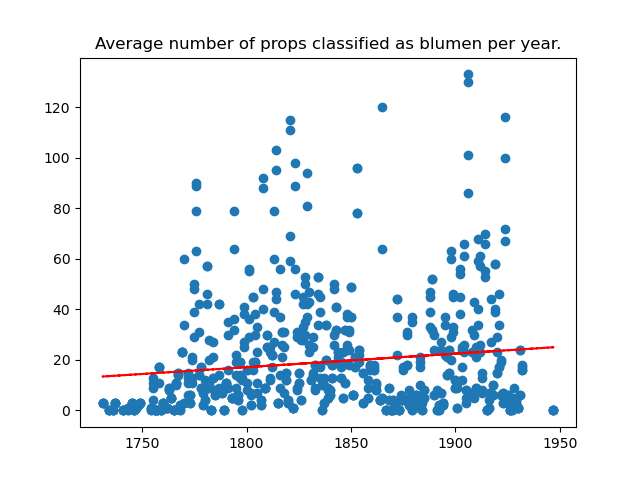
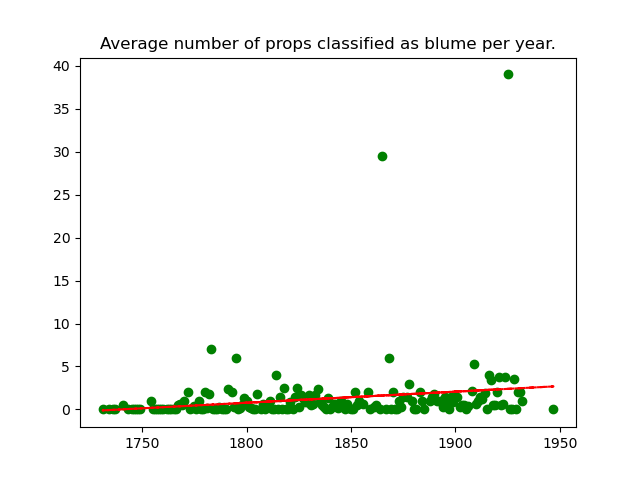
stühle final(?) presentationm

diff --git a/2024-05-27-chair-jf/index.html b/2024-05-27-chair-jf/index.html
@@ -4,7 +4,7 @@
 		<meta charset="utf-8">
 		<meta name="viewport" content="width=device-width, initial-scale=1.0, maximum-scale=1.0, user-scalable=no">
 
-		<title>reveal.js</title>
+		<title>Stühle in DraCor</title>
 
 		<link rel="stylesheet" href="../revealjs/dist/reset.css">
 		<link rel="stylesheet" href="../revealjs/dist/reveal.css">
@@ -18,7 +18,161 @@
 			<div class="slides">
 				<section data-markdown="" data-separator="^\n---\n" data-separator-vertical="^\n--\n" data-charset="utf-8">
 					<script type="text/template">
-						#### Test
+
+### Stühle in DraCor
+Jonah Lubin, nach einer Idee von Viktor Illmer<!-- .element: style="font-size:0.8em;" -->
+
+---
+
+### Hintergrund
+
+- Frank und ich haben letztens [Requisiten untersucht](https://zenodo.org/records/10698448)
+	- Erstmal SpaCy benutzt, um Requisitenklassen zu bauen
+	- Danach diese Requisitenklassen als string searches benutzt, um Häufigkeit der Requisiten in Regieanweisungen (von DraCor) zu untersuchen
+
+--
+
+### Was ähnliches für Stühle machen:
+
+- Klasse für Stühle bauen, Regieanweisungen für Erwähnungen durchsuchen, die plotten und chronologisch mit anderen Requisiten vergleichen
+
+Klasse für Waffen | Klasse für Stühle
+----|----
+![weapons class](images/waffen_klasse.png)| ![chairs class](images/stuhl_klasse.png)
+
+---
+
+### Erwähnungen  
+<br/>
+
+- 1,295 mal erwähnt  
+
+- kommt relativ häufig vor:  
+
+	- Waffen: 2265
+	- Dolch: 308
+	- Pflanzen: 1594
+	- Blumen: 448
+	- Kaffee: 101
+
+--
+
+#### Stücke mit dein meisten Stühlen
+
+Titel|Autor|Jahr|Stühle
+-----|-----|----|------
+Das Konzert|Hermann Bahr|1909|33
+Mein Leopold|L'Arronge|1873|24
+Das Phantom|Hermann Bahr|1913|22
+Die Haubenlerche|Ernst von Wildenbruch|1891|22
+Die Spielereien einer Kaiserin|Max Dauthendey|1911|21
+
+
+---
+
+### Entwicklung
+Aufstieg des Stuhls:
+
+![stuhl](images/stuhl.png)<!-- .element height="400px;" -->
+
+--
+
+Stühle werden, wie alle Requisiten, immer häufiger erwähnt:
+
+Alle Requisiten | nur Stühle
+----|----
+![props per year](images/props_per_year.png)| ![stuhl](images/stuhl.png)
+~.377x-644.5|~.01520x-25.73
+
+Requisiten überhaupt steigen aber steiler auf
+
+--
+
+Stühle steigen aber steiler als andere Requisiten auf:
+Waffen | Stühle
+----|----
+![Waffen](images/waffen.png)| ![stuhl](images/stuhl.png)
+~.00741x-9.79|~.01520x-25.73
+
+--
+
+Stühle steigen aber steiler als andere Requisiten auf:
+Dolch | Stühle
+----|----
+![Dolch](images/dolch.png)| ![stuhl](images/stuhl.png)
+~-.00042x-1.25|~.01520x-25.73
+
+--
+
+Weniger steil als Pflanzen!:
+Pflanzen | Stühle
+----|----
+![Pflanzen](images/pflanzen.png)| ![stuhl](images/stuhl.png)
+~.02436x-41.35|~.01520x-25.73
+
+--
+
+Stühle steigen aber steiler als andere Requisiten auf:
+Blumen | Stühle
+----|----
+![Blumen](images/blumen.png)| ![stuhl](images/stuhl.png)
+~.01291x-22.47|~.01520x-25.73
+
+--
+
+Stühle steigen aber steiler als andere Requisiten:
+Kaffee | Stühle
+----|----
+![Kaffee](images/kaffee.png)| ![stuhl](images/stuhl.png)
+~.0134x-2.32|~.01520x-25.73
+
+--
+
+Aber auch weniger steil als Tische:
+Tische | Stühle
+----|----
+![Kaffee](images/tisch.png)| ![stuhl](images/stuhl.png)
+~.0463x-80.19|~.01520x-25.73
+
+
+--
+Also:
+
+- Die Regressionslinie von Stühlen ist steiler als Waffen, Dolche, Blumen, und bisschen steiler als Kaffee
+- aber weniger steil als Pflanzen, Tische, und Requisiten überhaupt.
+- Das legt nahe, dass es eine Klasse oder Klassen von Requisiten gibt, die steiler als z.B. Waffen aufsteigt, um die Regressionsline für alle Requisiten so steil zu machen
+
+--
+
+Oder, was fehlt? 
+
+Alle Requisiten | Waffen
+----|----
+![props per year](images/props_per_year.png)| ![waffen](images/waffen.png)
+~.377x-644.5|~.00741x-9.79
+
+---
+
+### Meine Vermutung:
+
+- Regieanweisungen sind im Laufe der Zeit länger und expliziter geworden. Früher, wurden ikonische Requisiten wie Waffen öfter explizit genannt, und weniger ikonische Requisiten (Stühle, Tische) -- weniger. Also im Laufe der Zeit, kommen mehr und mehr tagtägliche Gegenstände in Regieanweisungen vor, deswegen sind die Regressionslinien dafür steiler. Da ikonische Gegenstände (wie Waffen) auch am Anfang explizit gennant wurden, sind deren Regressionslinien weniger steil.
+
+--
+
+also:
+
+- Wenn das stimmt, gibt es eine Klasse von tagtäglichen Gegenständen, die im Laufe der Zeit häufiger in Regieanweisungen vorkommen
+- Es wäre interessant, diese Klasse zu untersuchen
+
+--
+
+danke!
+
+
+
+
+
+
 					</script>
 				</section>
 			</div>
